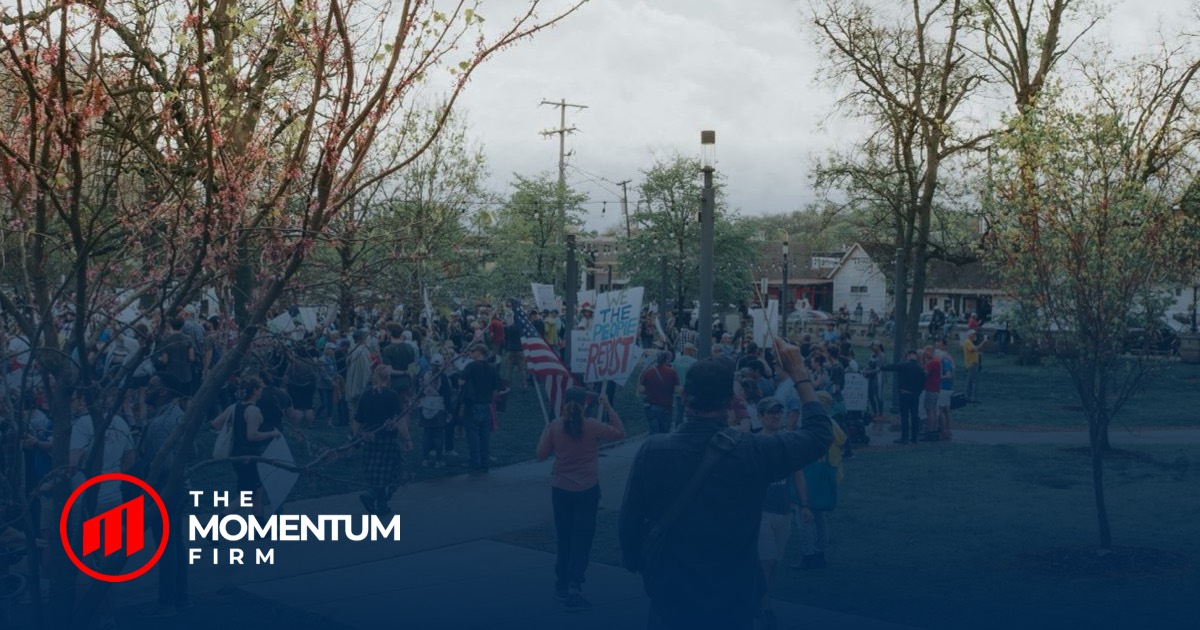
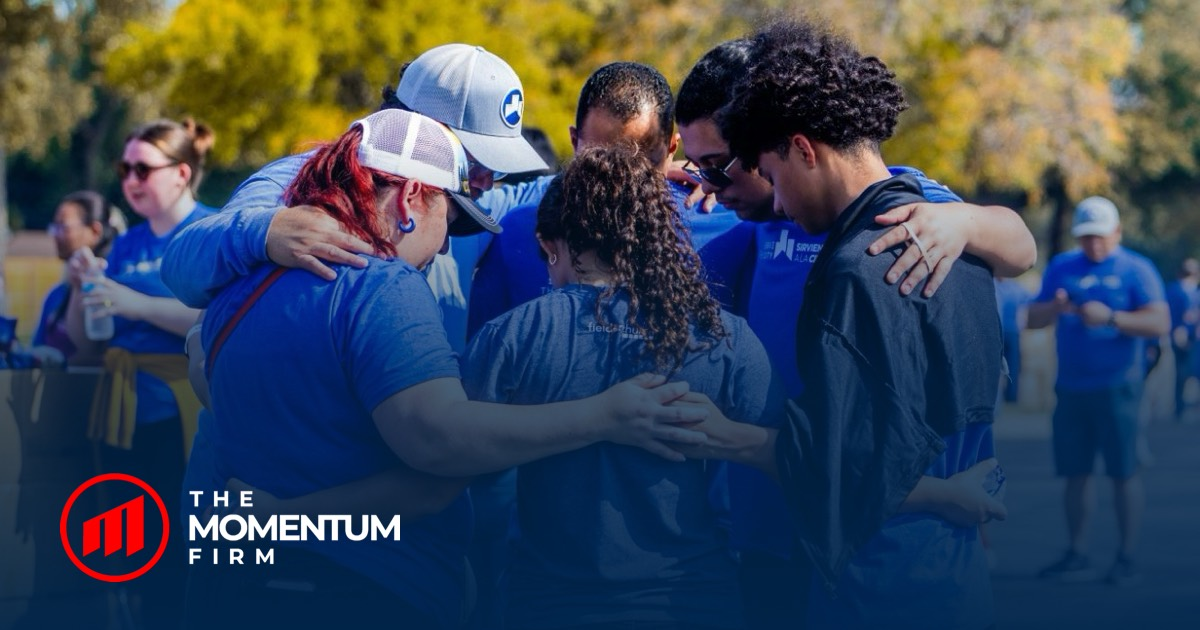
Nonprofits: new photo of volunteers in a group embrace, with link-preview image
The portrait original is cropped to the 4:3 hero; the preview crop focuses
near the top so faces stay in frame.

diff --git a/tools/share-images.swift b/tools/share-images.swift
@@ -29,7 +29,7 @@ let photos: [(String, String, CGFloat)] = [
     ("intergovernmental-organizations", "industry-intergovernmental-organizations.jpg", 0.5),
     ("k-12-schools", "industry-k-12-schools.jpg", 0.5),
     ("higher-education", "industry-higher-education.jpg", 0.5),
-    ("nonprofits", "industry-nonprofits.jpg", 0.5),
+    ("nonprofits", "industry-nonprofits.jpg", 0.1),
     ("100-day-transition-blueprint", "insights/100-day-transition-blueprint.jpg", 0.9),
 ]
 
